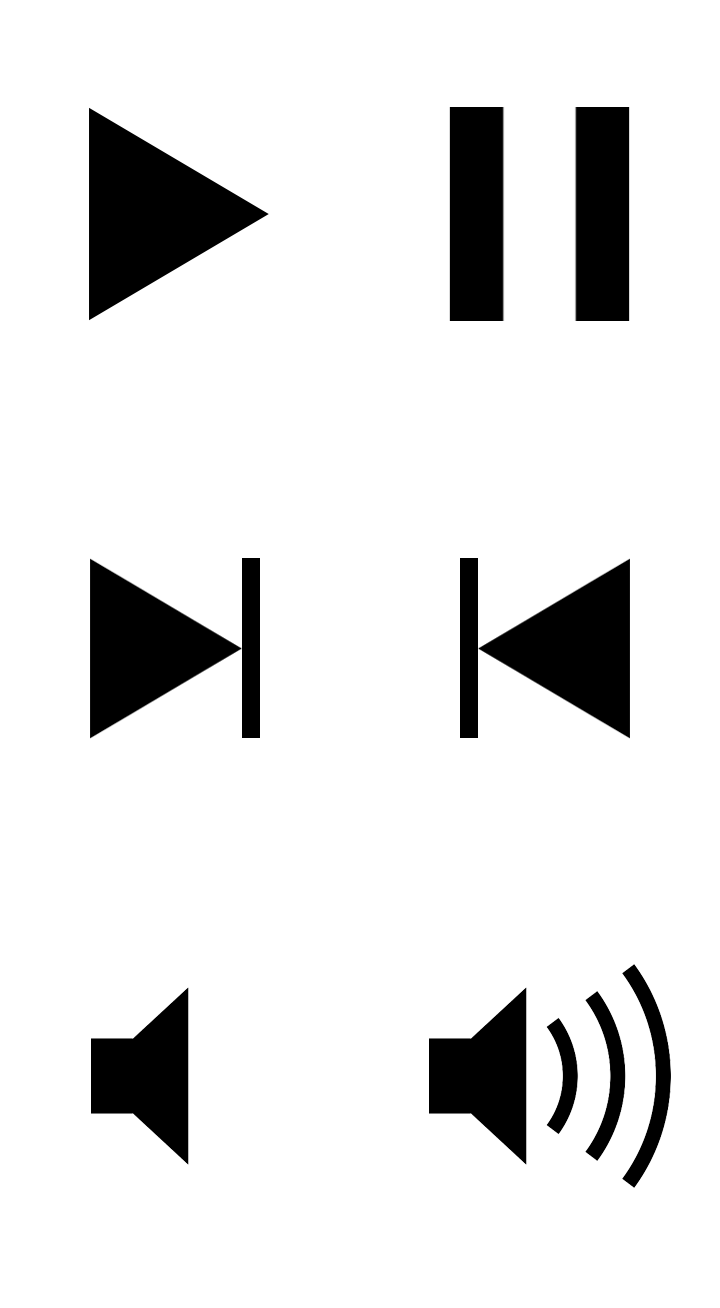
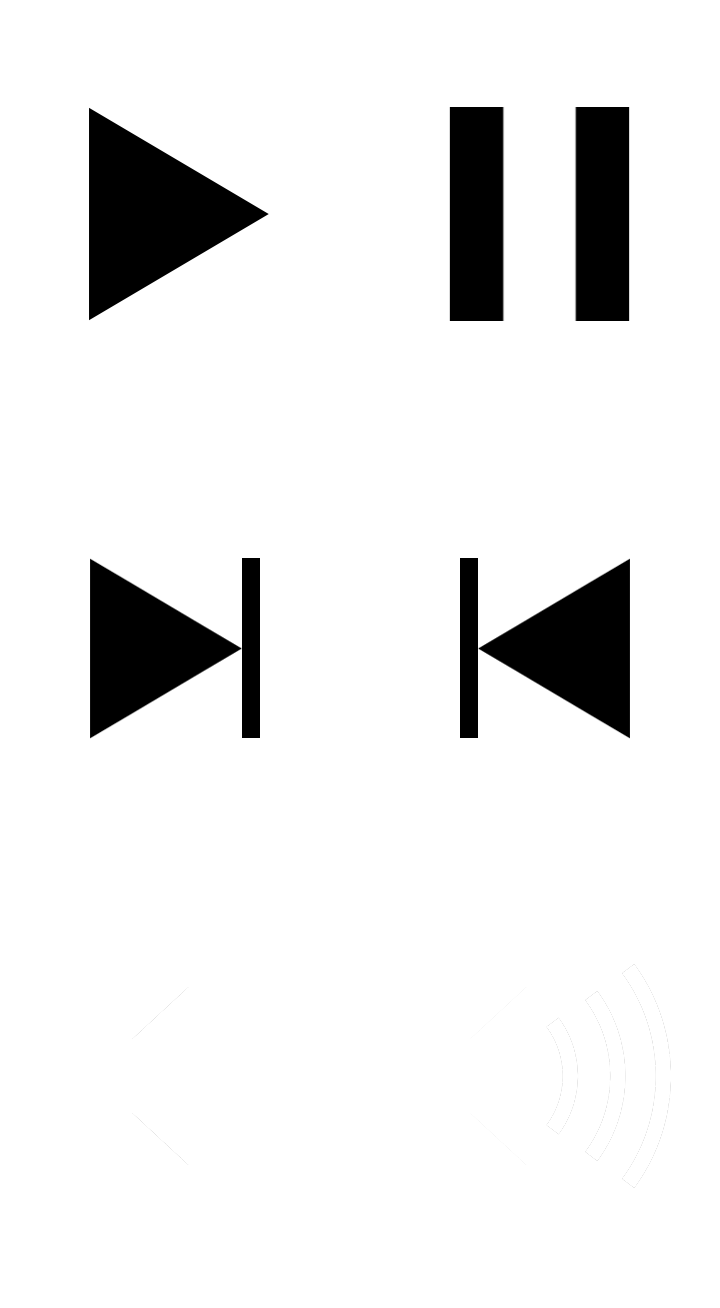
Addeed background image to player

Changed region(s): [[0.7639, 0.7339, 0.9472, 0.9174], [0.1222, 0.7339, 0.275, 0.8869], [0.5806, 0.7339, 0.7333, 0.8869]]

diff --git a/sites/all/themes/clocktower/sass/components/_player.scss b/sites/all/themes/clocktower/sass/components/_player.scss
@@ -1,28 +1,75 @@
+.player-container {
+  position: absolute;
+  background-size: cover !important;
+  background-position: 30% 50% !important;
+  height: 100%;
+  width: 100%;
+  .overlay {
+    position: absolute;
+    height: 100%;
+    width: 100%;
+    background: $black;
+    opacity: .45;
+    z-index: 20;
+  }
+  .text-overlay {
+    position: absolute;
+    top: 0;
+    width: 100%;
+    height: 350px;
+    background: url('../images/player-overlay.png') no-repeat;
+    background-size: cover;
+    opacity: .8;
+  }
+}
 .page-player {
   .player-header {
+    position: absolute;
+    z-index: 40;
+    width: 100%;
+    padding-top: 8px;
     @include clearfix;
     .logo {
-      width: 100px;
-      height: auto;
+      display: block;
+      width: 120px;
+      height: 120px;
       float: left;
       margin-left: 2%;
+      text-indent: 100%;
+      white-space: nowrap;
+      overflow: hidden;
+      background: url("../images/player-logo.png") no-repeat;
+      background-size: cover;
       @include breakpoint($bp580) {
-        width: 150px;
+        width: 180px;
+        height: 186px;
       }
     }
     .show-details {
       width: 160px;
       float: right;
-      margin-right: 10%;
+      margin-right: 6%;
+      margin-top: 15px;
       @include breakpoint($bp580) {
-        width: 400px;
-        margin: auto;
+        width: 290px;
+        float: left;
+        margin-left: 10%;
       }
       h2 {
         font-family: $fc;
         font-size: 17px;
+        margin-bottom: 5px;
+        color: $white;
         @include breakpoint($bp580) {
-          font-size: 24px;
+          font-size: 25px;
+        }
+        span {
+          font-weight: bold;
+          margin-right: 6px;
+          color: $white;
+          @include breakpoint($bp580) {
+            margin-right: 15px;
+          }
         }
       }
     }
@@ -39,6 +86,7 @@
     bottom: 0;
     left: 0;
     right: 0;
+    z-index: 1000;
   }
   .jp-audio {
     .jp-volume-controls {
@@ -54,35 +102,37 @@
         margin-left: 7px;
       }
       .jp-volume-bar {
-        background: $light-gray;
-        border: 1px solid $black;
+        background: $black;
+        border: 1px solid $white;
         height: 7px;
         width: 65px;
         margin-top: 4px;
         .jp-volume-bar-value {
           height: 7px;
-          background: $black;
+          background: $white;
         }
       }
       .jp-mute {
-        background: $white url('../images/icons2x/player-icons.png') no-repeat;
+        background: url('../images/icons2x/player-icons.png') no-repeat;
         background-size: 58px;
         background-position: -4px -79px;
       }
       .jp-volume-max {
         width: 22px;
-        background: $white url('../images/icons2x/player-icons.png') no-repeat;
+        background: url('../images/icons2x/player-icons.png') no-repeat;
         background-size: 58px;
         background-position: -34px -79px;
       }
     }
     .jp-progress {
       height: 25px;
+      border-top: 1px solid $black;
+      border-bottom: 1px solid $black;
       .jp-seek-bar {
         background: $light-gray;
       }
       .jp-play-bar {
-        background: $black;
+        background: $blue;
       }
     }
     .jp-time-holder {
@@ -95,6 +145,7 @@
       }
       div {
         width: auto;
+        color: $white;
       }
       .jp-duration {
         &:before {
@@ -105,9 +156,8 @@
     }
   }
   .player-controls {
-    padding: 25px 0;
-    border-top: 1px solid $dark-gray;
-    background: $white;
+    padding: 20px 0;
+    background: $light-gray;
   }
   .player-buttons {
     width: 262px;
@@ -123,7 +173,7 @@
       width: 81px;
       height: 76px;
       border: 1px solid $black;
-      background: $white url('../images/icons2x/player-icons.png') no-repeat;
+      background: $light-gray url('../images/icons2x/player-icons.png') no-repeat;
       border-radius: 50%;
       margin-right: 12px;
     }
@@ -165,7 +215,7 @@
   .jp-audio-stream,
   .jp-video,
   .jp-interface {
-    background-color: $white;
+    background-color: transparent;
     border: 0;
     height: auto;
     position: static;

diff --git a/sites/all/themes/clocktower/sass/variables/_spritemap.scss b/sites/all/themes/clocktower/sass/variables/_spritemap.scss
@@ -17,7 +17,7 @@ $hamburger-closed: (
   height: 128px,
   total-width: 2826px,
   total-height: 1308px,
-  image: '/sites/all/themes/custom/clocktower/images/generated/sprite-579cdf2ef38aa66c44ed43bff99c63bc.png'
+  image: '/sites/all/themes/custom/clocktower/images/generated/sprite-6b465141ad2d36c73f398126b7695d60.png'
 );
 $hamburger-open: (
   name: 'hamburger-open',
@@ -29,7 +29,7 @@ $hamburger-open: (
   height: 128px,
   total-width: 2826px,
   total-height: 1308px,
-  image: '/sites/all/themes/custom/clocktower/images/generated/sprite-579cdf2ef38aa66c44ed43bff99c63bc.png'
+  image: '/sites/all/themes/custom/clocktower/images/generated/sprite-6b465141ad2d36c73f398126b7695d60.png'
 );
 $icon-facebook: (
   name: 'icon-facebook',
@@ -41,7 +41,7 @@ $icon-facebook: (
   height: 50px,
   total-width: 2826px,
   total-height: 1308px,
-  image: '/sites/all/themes/custom/clocktower/images/generated/sprite-579cdf2ef38aa66c44ed43bff99c63bc.png'
+  image: '/sites/all/themes/custom/clocktower/images/generated/sprite-6b465141ad2d36c73f398126b7695d60.png'
 );
 $icon-twitter: (
   name: 'icon-twitter',
@@ -53,7 +53,7 @@ $icon-twitter: (
   height: 49px,
   total-width: 2826px,
   total-height: 1308px,
-  image: '/sites/all/themes/custom/clocktower/images/generated/sprite-579cdf2ef38aa66c44ed43bff99c63bc.png'
+  image: '/sites/all/themes/custom/clocktower/images/generated/sprite-6b465141ad2d36c73f398126b7695d60.png'
 );
 $play-sprite: (
   name: 'play-sprite',
@@ -65,7 +65,7 @@ $play-sprite: (
   height: 436px,
   total-width: 2826px,
   total-height: 1308px,
-  image: '/sites/all/themes/custom/clocktower/images/generated/sprite-579cdf2ef38aa66c44ed43bff99c63bc.png'
+  image: '/sites/all/themes/custom/clocktower/images/generated/sprite-6b465141ad2d36c73f398126b7695d60.png'
 );
 $player-icons-gray: (
   name: 'player-icons-gray',
@@ -77,7 +77,7 @@ $player-icons-gray: (
   height: 1308px,
   total-width: 2826px,
   total-height: 1308px,
-  image: '/sites/all/themes/custom/clocktower/images/generated/sprite-579cdf2ef38aa66c44ed43bff99c63bc.png'
+  image: '/sites/all/themes/custom/clocktower/images/generated/sprite-6b465141ad2d36c73f398126b7695d60.png'
 );
 $player-icons: (
   name: 'player-icons',
@@ -89,7 +89,7 @@ $player-icons: (
   height: 1308px,
   total-width: 2826px,
   total-height: 1308px,
-  image: '/sites/all/themes/custom/clocktower/images/generated/sprite-579cdf2ef38aa66c44ed43bff99c63bc.png'
+  image: '/sites/all/themes/custom/clocktower/images/generated/sprite-6b465141ad2d36c73f398126b7695d60.png'
 );
 $triangle-white: (
   name: 'triangle-white',
@@ -101,12 +101,12 @@ $triangle-white: (
   height: 192px,
   total-width: 2826px,
   total-height: 1308px,
-  image: '/sites/all/themes/custom/clocktower/images/generated/sprite-579cdf2ef38aa66c44ed43bff99c63bc.png'
+  image: '/sites/all/themes/custom/clocktower/images/generated/sprite-6b465141ad2d36c73f398126b7695d60.png'
 );
 $spritesheet: (
   width: 2826px,
   height: 1308px,
-  image: '/sites/all/themes/custom/clocktower/images/generated/sprite-579cdf2ef38aa66c44ed43bff99c63bc.png',
+  image: '/sites/all/themes/custom/clocktower/images/generated/sprite-6b465141ad2d36c73f398126b7695d60.png',
   sprites: ($hamburger-closed, $hamburger-open, $icon-facebook, $icon-twitter, $play-sprite, $player-icons-gray, $player-icons, $triangle-white, )
 );
 

diff --git a/sites/all/themes/clocktower/sass/clocktower.no-query.scss b/sites/all/themes/clocktower/sass/clocktower.no-query.scss
@@ -1,4 +1,4 @@
-$breakpoint-no-queries: true;
+$breakpoint-no-queries: false;
 $breakpoint-no-query-fallbacks: true;
 
 // Re-render everything from styles.scss but without media queries.

diff --git a/sites/all/modules/clocktower_player/templates/clocktower-player-page.tpl.php b/sites/all/modules/clocktower_player/templates/clocktower-player-page.tpl.php
@@ -1,66 +1,70 @@
-<div class="player-header">
-  <img class="logo" src="<?php print theme_get_setting('logo'); ?>" alt="">
-  <div class="show-details">
-    <h2>Show: <?php print($title); ?></h2>
-    <h2>Series: <?php print($series); ?></h2>
-    <?php if($channel): ?>
-      <h2>Channel: <?php print($channel); ?></h2> 
-    <?php endif; ?>
+<div class="player-container" style="background: url('<?php print($background_image_src); ?>') no-repeat;">
+  <span class="overlay"></span>
+  <span class="text-overlay"></span>
+  <div class="player-header">
+    <h1 class="logo">Clocktower</h1>
+    <div class="show-details">
+      <h2><span>Show:</span><?php print($title); ?></h2>
+      <h2><span>Series:</span><?php print($series); ?></h2>
+      <?php if($channel): ?>
+        <h2><span>Channel:</span><?php print($channel); ?></h2> 
+      <?php endif; ?>
+    </div>
   </div>
-</div>
-<div class="controls-container">
-  <div id="jquery_jplayer_1" class="jp-jplayer"></div>
-  <div id="jp_container_1" class="jp-audio" role="application" aria-label="media player">
-  	<div class="jp-type-single">
-  		<div class="jp-gui jp-interface">
-  			<div class="jp-controls">
-  				<button class="jp-play" role="button" tabindex="0">play</button>
-  				<button class="jp-stop" role="button" tabindex="0">stop</button>
-  			</div>
-        <div class="jp-volume-controls">
-          <button class="jp-mute" role="button" tabindex="0">mute</button>
-          <div class="jp-volume-bar">
-            <div class="jp-volume-bar-value"></div>
+  <div class="controls-container">
+    <div id="jquery_jplayer_1" class="jp-jplayer"></div>
+    <div id="jp_container_1" class="jp-audio" role="application" aria-label="media player">
+      <div class="jp-type-single">
+        <div class="jp-gui jp-interface">
+          <div class="jp-controls">
+            <button class="jp-play" role="button" tabindex="0">play</button>
+            <button class="jp-stop" role="button" tabindex="0">stop</button>
           </div>
-          <button class="jp-volume-max" role="button" tabindex="0">max volume</button>
-        </div>
-        <div class="jp-time-holder">
-          <div class="jp-current-time" role="timer" aria-label="time">&nbsp;</div>
-          <div class="jp-duration" role="timer" aria-label="duration">&nbsp;</div>
-          <div class="jp-toggles">
-            <button class="jp-repeat" role="button" tabindex="0">repeat</button>
+          <div class="jp-volume-controls">
+            <button class="jp-mute" role="button" tabindex="0">mute</button>
+            <div class="jp-volume-bar">
+              <div class="jp-volume-bar-value"></div>
+            </div>
+            <button class="jp-volume-max" role="button" tabindex="0">max volume</button>
+          </div>
+          <div class="jp-time-holder">
+            <div class="jp-current-time" role="timer" aria-label="time">&nbsp;</div>
+            <div class="jp-duration" role="timer" aria-label="duration">&nbsp;</div>
+            <div class="jp-toggles">
+              <button class="jp-repeat" role="button" tabindex="0">repeat</button>
+            </div>
+          </div>
+          <div class="jp-progress">
+            <div class="jp-seek-bar">
+              <div class="jp-play-bar"></div>
+            </div>
           </div>
         </div>
-  			<div class="jp-progress">
-  				<div class="jp-seek-bar">
-  					<div class="jp-play-bar"></div>
-  				</div>
-  			</div>
-  		</div>
 
-      <div class="player-controls">
-        <div class="player-buttons">
-          <?php if ($previous_show_id) { ?>
-            <a class="previous-node" href="/player/<?php print($mode . '/' . $previous_show_id) ?>">previous node</a>
-          <?php } else { ?>
-            <p class="previous-node">previous node</p>
-          <?php } ?>
+        <div class="player-controls">
+          <div class="player-buttons">
+            <?php if ($previous_show_id) { ?>
+              <a class="previous-node" href="/player/<?php print($mode . '/' . $previous_show_id) ?>">previous node</a>
+            <?php } else { ?>
+              <p class="previous-node">previous node</p>
+            <?php } ?>
 
-          <a class="previous-track" href="#">previous track</a>
-          <a class="play-button" href="#">play</a>
-          <a class="next-track" href="#">next track</a>
-          <?php if ($next_show_id) { ?>
-            <a class="next-node" href="/player/<?php print($mode . '/' . $next_show_id) ?>">next node</a>
-          <?php } else { ?>
-            <p class="next-node">next node</p>
-          <?php } ?>
+            <a class="previous-track" href="#">previous track</a>
+            <a class="play-button" href="#">play</a>
+            <a class="next-track" href="#">next track</a>
+            <?php if ($next_show_id) { ?>
+              <a class="next-node" href="/player/<?php print($mode . '/' . $next_show_id) ?>">next node</a>
+            <?php } else { ?>
+              <p class="next-node">next node</p>
+            <?php } ?>
+          </div>
+        </div>
+
+        <div class="jp-no-solution">
+          <span>Update Required</span>
+          To play the media you will need to either update your browser to a recent version or update your <a href="http://get.adobe.com/flashplayer/" target="_blank">Flash plugin</a>.
         </div>
       </div>
-
-  		<div class="jp-no-solution">
-  			<span>Update Required</span>
-  			To play the media you will need to either update your browser to a recent version or update your <a href="http://get.adobe.com/flashplayer/" target="_blank">Flash plugin</a>.
-  		</div>
-  	</div>
+    </div>
   </div>
 </div>
